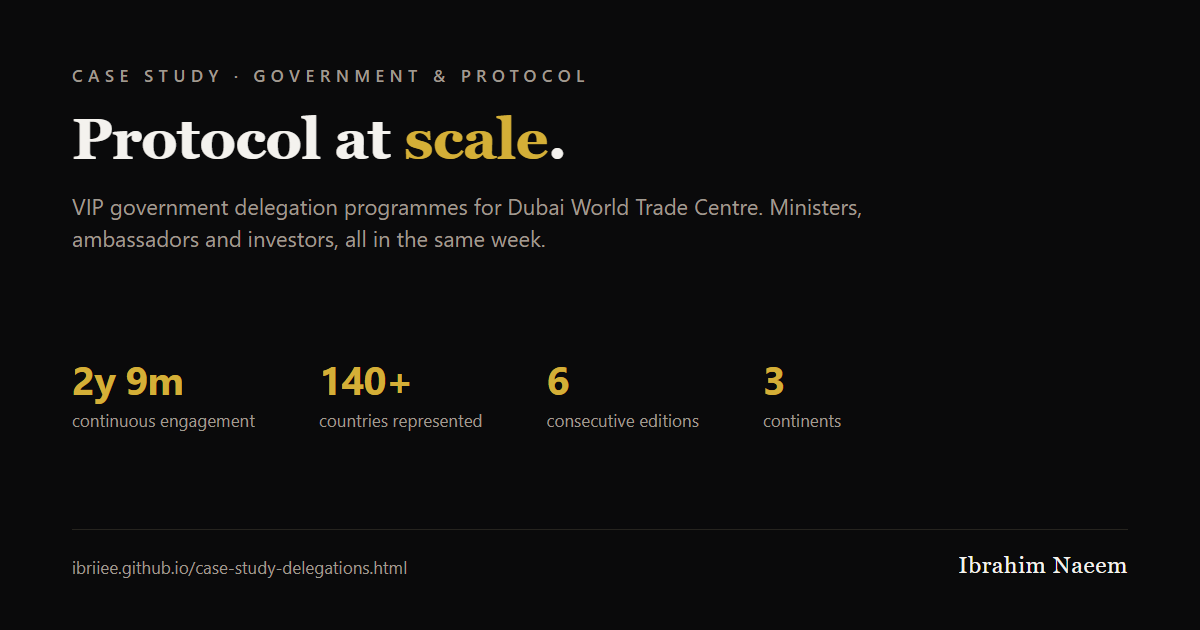
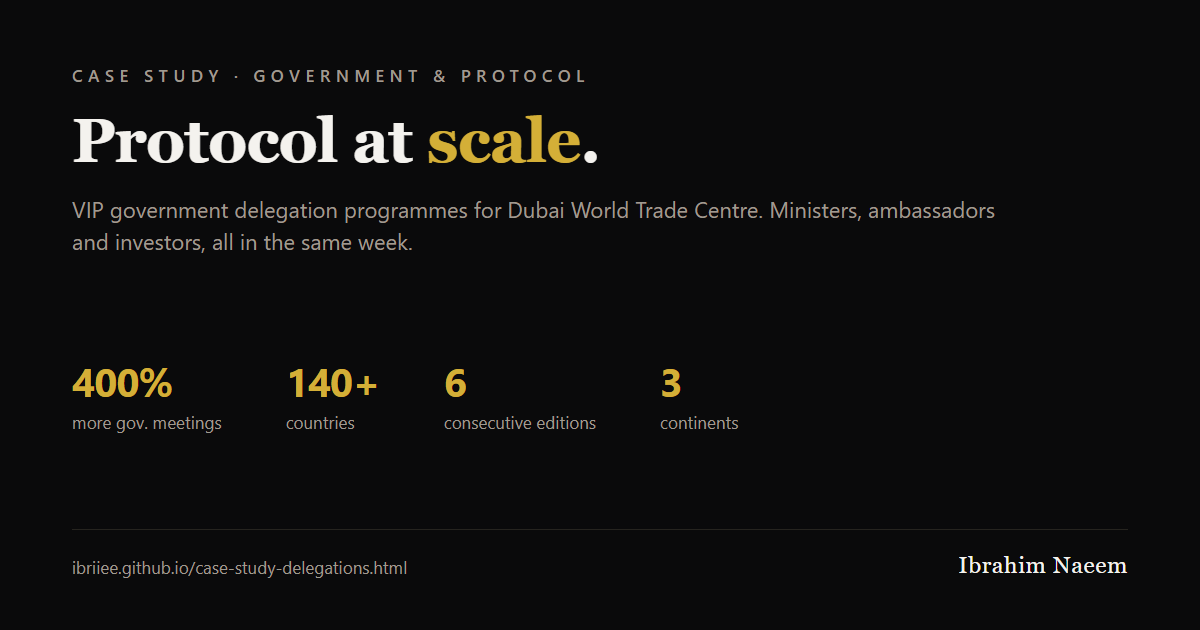
Rewrite delegations case study, add Al Ain case study

diff --git a/case-study-alain.html b/case-study-alain.html
@@ -3,16 +3,16 @@
 <head>
 <meta charset="UTF-8">
 <meta name="viewport" content="width=device-width, initial-scale=1.0">
-<title>Case Study — Government Delegations at Scale · Ibrahim Naeem</title>
+<title>Case Study — Al Ain Flower Festival · Ibrahim Naeem</title>
 <meta property="og:type" content="article">
-<meta property="og:url" content="https://ibriiee.github.io/case-study-delegations.html">
-<meta property="og:title" content="Government Delegations at Scale — Case Study">
-<meta property="og:description" content="400% more government meetings at GITEX Africa. 140+ countries, six consecutive editions, three continents, for Dubai World Trade Centre.">
-<meta property="og:image" content="https://ibriiee.github.io/assets/og-delegations.png">
+<meta property="og:url" content="https://ibriiee.github.io/case-study-alain.html">
+<meta property="og:title" content="Al Ain Flower Festival — Case Study">
+<meta property="og:description" content="I am not a landscaping expert. I was still responsible for the irrigation, the soil and a publicly announced opening date. On doing the thing you have never done before.">
+<meta property="og:image" content="https://ibriiee.github.io/assets/og-alain.png">
 <meta property="og:image:width" content="1200">
 <meta property="og:image:height" content="630">
 <meta name="twitter:card" content="summary_large_image">
-<meta name="twitter:image" content="https://ibriiee.github.io/assets/og-delegations.png">
+<meta name="twitter:image" content="https://ibriiee.github.io/assets/og-alain.png">
 <link rel="preconnect" href="https://fonts.googleapis.com">
 <link rel="preconnect" href="https://fonts.gstatic.com" crossorigin>
 <link href="https://fonts.googleapis.com/css2?family=Inter:wght@300;400;500;600&family=Newsreader:ital,opsz,wght@0,6..72,300;0,6..72,400;1,6..72,300&display=swap" rel="stylesheet">
@@ -134,149 +134,126 @@
 
 <header>
   <div class="wrap">
-    <div class="eyebrow">Case study &middot; Government &amp; protocol</div>
-    <h1 class="serif">A minister's flight changed<br>while he was <span class="gold">in the air</span>.</h1>
-    <p class="lede">That is a normal Tuesday on a delegation programme. Two years and nine months
-      of them, for Dubai World Trade Centre, across six editions on three continents.
-      <em>Here is how you make that boring, which is the whole job.</em></p>
-    <div class="byline"><b>Ibrahim Naeem</b> &mdash; Government Key Account Manager &amp;
-      Executive Meeting Manager, DWTC (via Vibes Events) &middot; April 2023 &ndash; December 2025</div>
+    <div class="eyebrow">Case study &middot; Large-scale production</div>
+    <h1 class="serif">I am not a<br><span class="gold">landscaping expert</span>.</h1>
+    <p class="lede">I was still the one responsible for irrigation, soil, and several hundred
+      thousand flowers being alive and upright on a publicly announced opening date.
+      <em>Al Ain Flower Festival. This is the case study about doing the thing you have never
+      done before.</em></p>
+    <div class="byline"><b>Ibrahim Naeem</b> &mdash; Production &amp; Operations Manager,
+      Alsayegh Worldwide &middot; Al Ain, UAE &middot; November 2025 &ndash; February 2026</div>
   </div>
 </header>
 
 <div class="wrap">
   <div class="stats">
-    <div class="stat"><div class="n gold">400%</div><div class="l">More gov. meetings, GITEX Africa</div></div>
-    <div class="stat"><div class="n">140+</div><div class="l">Countries represented</div></div>
-    <div class="stat"><div class="n">6</div><div class="l">Consecutive editions</div></div>
-    <div class="stat"><div class="n">2y 9m</div><div class="l">Unbroken engagement</div></div>
+    <div class="stat"><div class="n gold">Fixed</div><div class="l">Public opening date</div></div>
+    <div class="stat"><div class="n">10+</div><div class="l">Vendors &amp; contractors</div></div>
+    <div class="stat"><div class="n">Multi</div><div class="l">Zone site</div></div>
+    <div class="stat"><div class="n">3</div><div class="l">Projects, back to back</div></div>
   </div>
 </div>
 
 <section><div class="wrap">
   <div class="num">01</div>
-  <h2 class="serif">Protocol does not scale by trying harder</h2>
-  <p>From the outside a delegation programme looks like logistics. Cars, badges, meeting rooms.</p>
-  <p>It is not. It is a <b>communications problem in a logistics costume.</b> A minister, an
-    ambassador and a sovereign-fund investor each arrive with their own unwritten rules about how
-    a meeting opens, who is introduced first, and what respect looks like. Nobody hands you those
-    rules. You are expected to already know them.</p>
-  <p>Now run forty of those in parallel, in one venue, in one week, with people from more than
-    140 countries.</p>
-  <p class="serif pull">The failure here is never one big mistake. It is a hundred small
-    discourtesies nobody reports.</p>
-  <p>No one files a complaint about being introduced second. They just do not come back, and the
-    reason never reaches anyone who could have fixed it.</p>
-  <p>So the thing you actually engineer is not the schedule. It is <b>consistency</b>, across
-    dozens of programmes, run by people who cannot all be you.</p>
+  <h2 class="serif">The honest starting position</h2>
+  <p>A flower festival needs irrigation design, soil and drainage, horticultural timing,
+    landscaping crews, structural installation, and a site that survives thousands of visitors
+    walking through it every day for weeks.</p>
+  <p>I had done exactly none of that before.</p>
+  <p>I have built exhibitions, galas, festivals and government programmes. I had never once been
+    responsible for keeping several hundred thousand living things alive on a schedule.</p>
+  <p class="serif pull">Nobody was going to move the opening date because the producer had not
+    done flowers before.</p>
+  <p>So the real question was never "do I know landscaping." It was: <b>how fast can I learn
+    enough to make good decisions, and how do I make sure the people who do know are heard?</b></p>
 </div></section>
 
 <section><div class="wrap">
   <div class="num">02</div>
-  <h2 class="serif">Four rules that never failed</h2>
-  <p>Every one of these exists because something nearly went wrong first.</p>
-  <ul class="clean">
-    <li><b>Confirm names and titles twice.</b> A wrong title costs more than a late car. You can
-      apologise for a car.</li>
-    <li><b>The schedule is a living document.</b> Build slack into it, or it will build slack
-      into you. A programme with no give does not survive its first changed flight.</li>
-    <li><b>The assistant is the most important person you will speak to all week.</b> They hold
-      access, they know the real preferences, and they remember exactly how they were treated.</li>
-    <li><b>When two protocols collide, seniority wins, and apologies travel down, never up.</b>
-      Decide that before the room fills, not in it.</li>
-  </ul>
-  <p>Written down they look obvious. That is the point. The value was never the insight, it is
-    that four lines can be handed to a coordinator who has never met a deputy minister, and they
-    will hold.</p>
-  <p>Which, it turns out, is the same problem I ended up solving with software.</p>
+  <h2 class="serif">What I actually did instead of pretending</h2>
+  <div class="grid">
+    <div class="card"><div class="k">Said it out loud, early</div>
+      <p>Told the horticulture and irrigation contractors directly that this was not my domain.
+        Specialists tell you far more when they are not busy managing your ego.</p></div>
+    <div class="card"><div class="k">Learned the failure modes, not the craft</div>
+      <p>I did not need to design an irrigation system. I needed to know what kills one, how
+        long it takes, and what the warning looks like a week early.</p></div>
+    <div class="card"><div class="k">Put biology on the run sheet</div>
+      <p>Plants do not care about your build schedule. Growth and delivery windows became fixed
+        constraints in the plan, the same as a stage load-in.</p></div>
+    <div class="card"><div class="k">Made the experts the authority</div>
+      <p>On their call, they decided and I cleared the path. On delivery, budget and the date,
+        I decided. Everyone knew which was which.</p></div>
+    <div class="card"><div class="k">Rehearsed the failure</div>
+      <p>What happens if a shipment lands late, a zone floods, or a section dies in week two.
+        Answers agreed before they were needed, not during.</p></div>
+    <div class="card"><div class="k">Owned the boring half</div>
+      <p>Municipality compliance, permits, crowd flow, entry and exit, visitor experience across
+        multiple zones. That part is squarely my domain and it never slipped.</p></div>
+  </div>
 </div></section>
 
 <section><div class="wrap">
   <div class="num">03</div>
-  <h2 class="serif">The number I am proudest of</h2>
-  <div class="measure">
-    <div class="k eyebrow">GITEX Africa, government meetings, year on year</div>
-    <div class="from-to">
-      <span class="to gold">+400%</span>
-    </div>
-    <div class="cap">Government meetings booked and delivered at GITEX Africa, against the
-      previous edition. Not attendance, not footfall. Actual government meetings that happened.</div>
-  </div>
-  <p>It did not come from working longer hours. It came from treating the meeting pipeline like a
-    pipeline: qualify earlier, brief better, stop chasing delegations that were never going to
-    convert, and give the ones that would a reason to say yes.</p>
+  <h2 class="serif">The transferable bit</h2>
+  <p>Every senior operations job is eventually this. A category you have not run before, a date
+    that will not move, and a team of specialists who know more than you about their piece.</p>
+  <p>The skill being tested is not domain knowledge. It is <b>whether you can be the person who
+    holds the whole thing together while being the least expert person in half the conversations
+    in the room.</b></p>
+  <p>That takes a specific kind of confidence: enough to make the call, not so much that you make
+    it over the person who actually knows.</p>
+  <p class="serif pull">Delivery capability and domain expertise are different skills. Most
+    hiring confuses them.</p>
+  <p>It is also, unsurprisingly, why I ended up building
+    <a href="case-study.html" style="color:inherit;border-bottom:1px solid var(--gold-dim);">AI
+    systems for events</a>. Same pattern: unfamiliar territory, real deadline, learn the failure
+    modes fast, and respect the people and tools that know more than you.</p>
 </div></section>
 
 <section><div class="wrap">
   <div class="num">04</div>
-  <h2 class="serif">The seat I had while GITEX went global</h2>
-  <p>I joined the delegation side in April 2023. The <b>first ever GITEX Africa opened six weeks
-    later</b>, in Marrakech.</p>
-  <p>What followed was the fastest expansion in the brand's history:</p>
-  <div class="tblwrap"><table>
-    <tr><th>Edition</th><th>First held</th><th>Where</th></tr>
-    <tr><td class="hd">GITEX Africa</td><td class="g">2023</td><td>Marrakech</td></tr>
-    <tr><td class="hd">GITEX Asia</td><td class="g">2025</td><td>Singapore</td></tr>
-    <tr><td class="hd">GITEX Europe</td><td class="g">2025</td><td>Berlin</td></tr>
-    <tr><td class="hd">GITEX Vietnam</td><td class="g">2026</td><td>Hanoi</td></tr>
-    <tr><td class="hd">GITEX AI India</td><td class="g">2027</td><td>Bengaluru</td></tr>
-  </table></div>
-  <p>I worked six of those editions, including the first Africa one. So I have seen the delegation
-    function get rebuilt for a new continent, from the inside, more than once.</p>
-  <p><b>To be completely clear: I did not cause that expansion.</b> That was DWTC and KAOUN
-    International's strategy, decided well above my pay grade. What I can say is that I was
-    delivering government programmes throughout it, in new markets where nothing was established
-    yet, and that is a specific kind of experience you cannot get at a mature event.</p>
+  <h2 class="serif">How it ended</h2>
+  <p>The festival opened on its announced date and ran its full season.</p>
+  <p>Then the client kept going with me: <b>Al Ain Ramadan Event</b> straight afterwards, and then
+    <b>Sneaker Con Doha</b>, the first edition in Qatar and Alsayegh's first multi-year IP
+    agreement there.</p>
+  <p>Three consecutive projects, in three different categories, in nine months. In freelance
+    production, that is the review. Nobody rebooks you twice out of politeness.</p>
 </div></section>
 
 <section><div class="wrap">
   <div class="num">05</div>
-  <h2 class="serif">The approval chain is the product</h2>
-  <p>Every programme cleared four layers before it existed: DWTC leadership, government protocol
-    offices, the embassy or ministry contact, and the delegation's own office.</p>
-  <p>Most people treat that chain as friction to be survived. It is not. At government level the
-    approval chain <b>is what makes a commitment mean something</b> to both sides.</p>
-  <p class="serif pull">Speed comes from knowing what each approver needs. Not from skipping
-    approvers.</p>
-</div></section>
-
-<section><div class="wrap">
-  <div class="num">06</div>
   <h2 class="serif">What I will not claim</h2>
   <div class="honesty">
     <div class="k">Said up front, so nobody has to ask</div>
     <ul class="clean">
-      <li><b>The 400% is my own figure</b> from running the programme, not a published DWTC
-        statistic. I will walk anyone through how it was counted.</li>
-      <li><b>I did not drive GITEX's global expansion.</b> I was there for it. Those are very
-        different sentences and I am only making the second one.</li>
-      <li><b>No total meeting or delegation counts.</b> Those live in DWTC's systems. Not mine to
-        publish, and I will not estimate them.</li>
-      <li><b>No attributed trade or deal value.</b> Delegations sign their own agreements.
-        Claiming the value that flows through an event you helped run is the oldest inflation in
-        this industry.</li>
-      <li><b>Contracted, not employed.</b> The engagement ran through Vibes Events. Stated because
-        hiding it would be the exact moment this page stopped being worth reading.</li>
+      <li><b>I am not a horticulturist, an agronomist or an irrigation engineer</b>, and this page
+        is not quietly suggesting otherwise. Specialists did the specialist work.</li>
+      <li><b>No visitor numbers, budget or revenue figures.</b> Those belong to the client and
+        the authority. I will not estimate someone else's numbers to make my page look better.</li>
+      <li><b>It was a team.</b> The festival opened because a lot of people did their jobs well.
+        My contribution was production and operations, not the flowers.</li>
+      <li><b>Nothing went perfectly.</b> Things went wrong, as they do on every build. They were
+        handled. A case study claiming a flawless project is a case study nobody believes.</li>
     </ul>
   </div>
-  <p>In an industry that staffs delegation programmes edition by edition, I was re-engaged six
-    times in a row. Nobody re-books a protocol failure. That is the part a reference call
-    confirms in thirty seconds.</p>
 </div></section>
 
 <footer><div class="wrap">
   <div class="eyebrow">What I do with this now</div>
-  <h2 class="serif">Government-grade delivery, and the systems to make it repeatable.</h2>
+  <h2 class="serif">Hand me the category I have never run. That is usually the job.</h2>
   <p>Twelve years of UAE and GCC event operations, and the AI systems built to run them. I work
     with events companies, agencies and government-adjacent organisations, employed or fractional.</p>
   <div class="contact">
     <a href="https://linkedin.com/in/ibrahimn">linkedin.com/in/ibrahimn</a>
     <a href="mailto:ibrahim_naeem@outlook.com">ibrahim_naeem@outlook.com</a>
+    <a href="case-study-delegations.html">Government delegations case study</a>
     <a href="case-study.html">Auto Pilot Events OS case study</a>
-    <a href="case-study-alain.html">Al Ain Flower Festival case study</a>
     <a href="profile.html">Full profile</a>
   </div>
-  <p class="fineprint">Engagement dates, the six editions and the 140+ country figure are verifiable through Dubai World Trade Centre and Vibes Events. GITEX first-edition dates are public record. The 400% figure is mine, from running the programme, and section 06 says so. Nothing here is estimated or rounded up.</p>
+  <p class="fineprint">Dates, the client engagement and the project sequence are verifiable through Alsayegh Worldwide. Scale figures on this page are limited to what is mine to state. Where a number would have helped but belongs to the client, section 05 says so instead.</p>
 </div></footer>
 
 </body>
